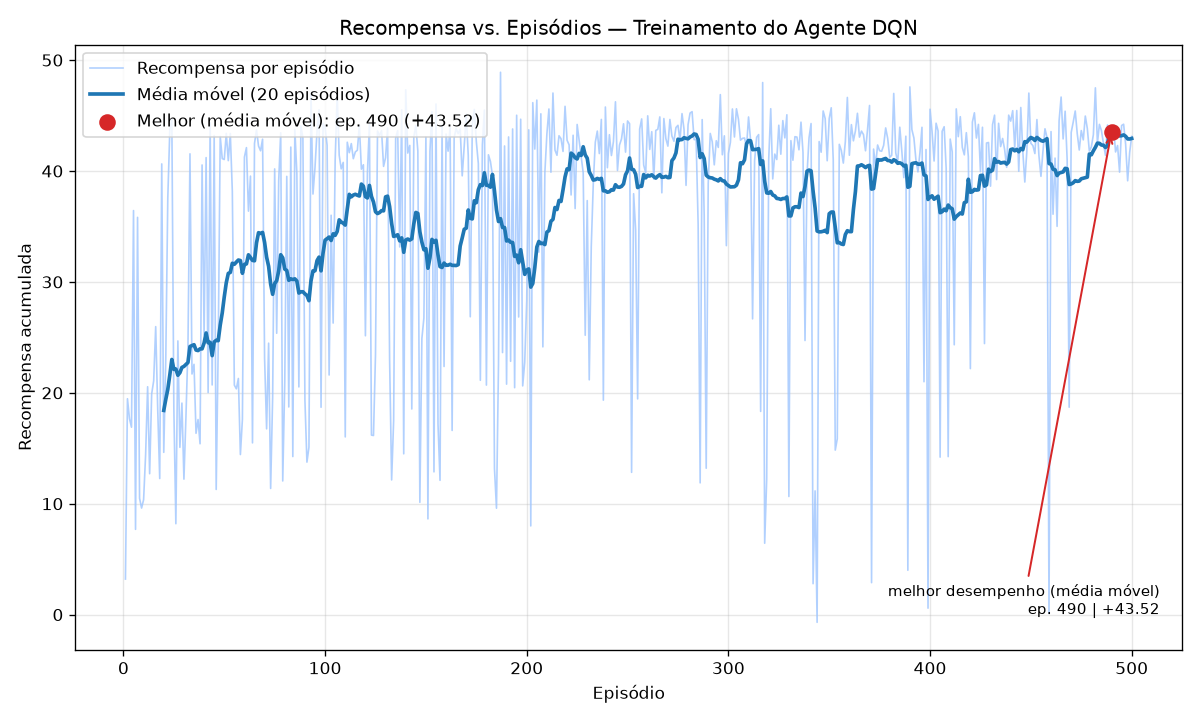
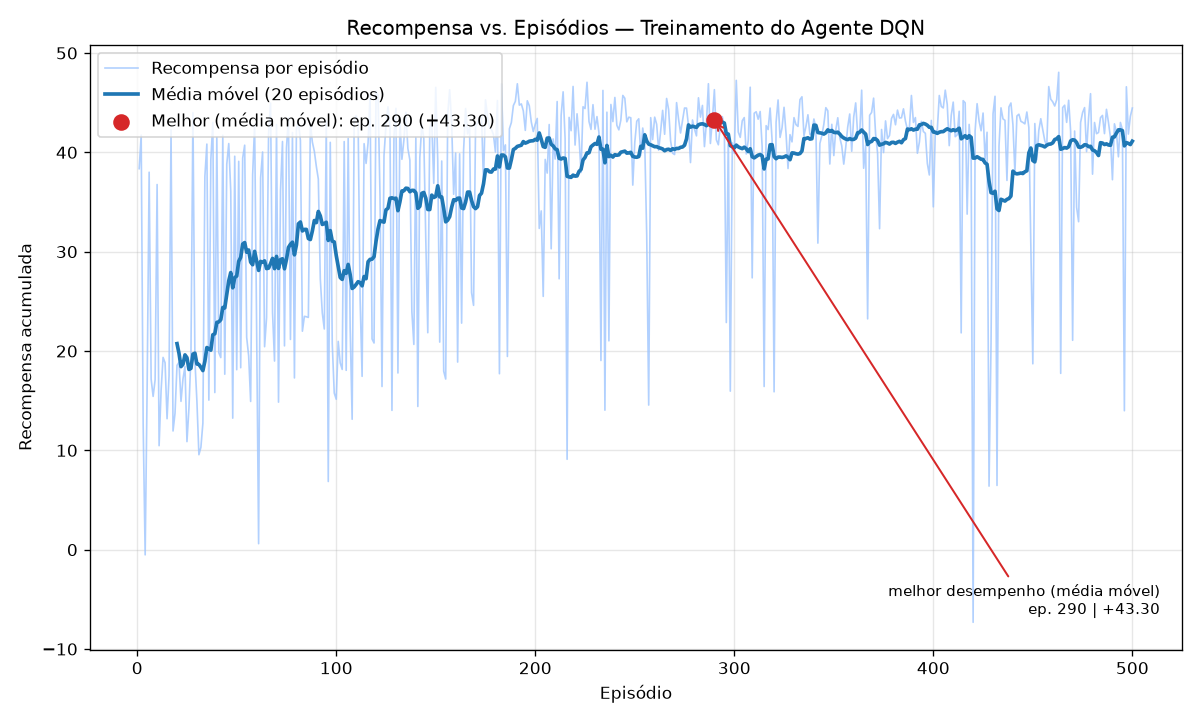
docs: relatório técnico da implementação (domínio, MDP, crença, resultados)
Relatório técnico do ITS por RL: domínio (grafo de conhecimento/DAG),
formulação como MDP de estado-de-crença, descrição do que foi implementado no
código (schema/banco em grade, simulador do aluno com crença Bayesiana, agente
DQN e treino), parecer da linha de pensamento (diagnóstico da recompensa de
média zero e o insight de estado-de-crença), resultados com 4 figuras (DAG,
curva de aprendizado, evolução da proficiência e estimativa vs. verdade) e
tabelas (métricas + robustez em 3 execuções), limitações e trabalhos futuros.

diff --git a/docs/RELATORIO_TECNICO.md b/docs/RELATORIO_TECNICO.md
@@ -1,0 +1,327 @@
+# Relatório Técnico — Sistema Tutor Inteligente (ITS) com Aprendizado por Reforço
+
+**Projeto:** `enem-rl-tutor` — Tutor adaptativo de Matemática para o ENEM
+**Algoritmo:** Deep Q-Network (DQN) sobre um MDP de estado-de-crença
+
+---
+
+## 1. Sumário executivo
+
+O projeto modela um **Sistema Tutor Inteligente (ITS)** como um problema de
+**Aprendizado por Reforço (RL)**: em vez de recomendar produtos para maximizar
+cliques, o agente recomenda **trilhas de questões para maximizar o aprendizado**,
+conduzindo um aluno do nível básico ao avançado dentro de um currículo de
+Matemática do ENEM.
+
+A implementação tem três pilares:
+
+1. um **simulador do aluno** (o ambiente), que mantém a proficiência real do
+   estudante e a faz evoluir conforme ele acerta/erra;
+2. um **modelo de crença Bayesiano**, pelo qual o sistema **não conhece** a
+   proficiência verdadeira do aluno — ele a **estima com incerteza**, atualizando
+   a estimativa a cada resposta (como um tutor real faz);
+3. um **agente DQN**, que aprende a política pedagógica: a cada passo escolhe
+   **avaliar, consolidar ou recuar** no grafo de conhecimento.
+
+Resultados (política gulosa): **~88% de "nível avançado"** (média de 3 treinos;
+70–100%), **~8,8/12 conceitos dominados**, e — o diferencial pedagógico —
+**~68% das "sondagens"** (testar um conceito sobre o qual o sistema tem dúvida)
+**revelam domínio oculto**, reduzindo o erro da estimativa. O ponto central deste
+relatório é que tudo isso foi obtido **corrigindo a modelagem do problema**, não
+trocando de algoritmo.
+
+---
+
+## 2. Domínio e escopo
+
+### 2.1 O problema pedagógico
+
+O objetivo é manter o aluno na **Zona de Desenvolvimento Proximal (ZDP)** —
+questões nem fáceis demais (tédio/desperdício) nem difíceis demais (frustração) —
+e fazê-lo **evoluir** até conceitos avançados, evitando que fique preso no fácil.
+Fundamentos teóricos incorporados: ZDP (Vygotsky), Teoria de Resposta ao Item
+(TRI) e Modelo Aberto do Aluno.
+
+### 2.2 O Modelo de Domínio — Grafo de Conhecimento (DAG)
+
+O currículo é um **Grafo Direcionado Acíclico** `G = (V, E)`: os vértices são
+conceitos e as arestas são **pré-requisitos** (`v_i → v_j` ⇒ dominar `v_i` é
+necessário para aprender `v_j`). A implementação usa 12 conceitos em 5 níveis de
+profundidade:
+
+![Grafo de Conhecimento](figuras/grafo_conhecimento.png)
+
+A profundidade no DAG é o **eixo de evolução**: o "nível avançado" corresponde a
+dominar os conceitos profundos (ex.: `Volumes_Areas_Espacial`, profundidade 4),
+que exigem a cadeia completa de pré-requisitos.
+
+---
+
+## 3. Formulação como MDP
+
+| Elemento RL | Implementação no ITS |
+|---|---|
+| **Ambiente** | Simulador do aluno com proficiência **REAL oculta** |
+| **Estado `S`** (observado) | **Estimativa de proficiência (12)** ⊕ **one-hot do conceito atual (12)** ⊕ **incerteza da estimativa (12)** → `dim_estado = 36` |
+| **Ações `A`** | 3 intervenções pedagógicas: **Avançar** (sucessor no DAG), **Reforçar** (mesmo conceito), **Remediar** (pré-requisito) |
+| **Transição** | O aluno aprende (proficiência REAL muda) **e** o sistema reavalia (a estimativa é atualizada) |
+| **Recompensa `R`** | Orientada à meta + sondagem (§3.2) |
+| **Algoritmo** | DQN (estado contínuo + ações discretas) |
+
+### 3.1 Modelo de crença (estimativa + incerteza)
+
+O sistema mantém, para cada conceito, uma **crença Bayesiana** sobre a
+probabilidade de acerto, representada por uma distribuição **Beta(α, β)**:
+
+- o aluno acerta segundo a **proficiência REAL** (oculta);
+- o agente observa apenas a **média** `α/(α+β)` (estimativa) e o **desvio**
+  (incerteza) dessa crença;
+- a cada resposta a crença é atualizada (acerto → `+α`, erro → `+β`), com um leve
+  esquecimento (`λ = 0,95`) que a faz **rastrear** um aluno que evolui.
+
+Expor a **incerteza** (e não só a estimativa pontual) é o que torna a observação
+uma **estatística suficiente** do estado — ver §5.3.
+
+### 3.2 Função de recompensa
+
+```
+R_t = W_PROGRESSO · Δprof_real · peso_profundidade   (ganho de aprendizado, ponderado por profundidade)
+    + bônus de domínio                                (1ª vez que um conceito cruza o limiar τ = 0,8)
+    + W_SONDA · max(0, Δerro_crença)                  (SONDAGEM: ganho de informação)
+    − W_TEDIO · max(0, ŷ − 0,85)                      (questão fácil demais → tédio/desperdício)
+    − W_FRUST · max(0, 0,20 − ŷ)  [se errou]          (questão difícil demais → frustração)
+    − W_PASSO                                         (custo por passo → eficiência)
+    + W_OBJETIVO                                      (bônus terminal: nível avançado atingido)
+```
+
+| Parâmetro | Valor | Papel |
+|---|---|---|
+| `W_PROGRESSO` | 4,0 | Recompensa densa pelo ganho de proficiência (mais peso em conceitos profundos) |
+| `W_DOMINIO` | 1,5 | Bônus por **dominar** um conceito novo |
+| `W_SONDA` | 4,0 | **Ganho de informação**: quanto a resposta aproximou a estimativa da verdade |
+| `W_TEDIO` / `W_FRUST` | 1,0 / 1,5 | Penalizam os extremos da dificuldade |
+| `W_OBJETIVO` | 15,0 | Bônus terminal |
+| `τ` / meta | 0,80 / 70% | Limiar de domínio / fração do currículo = "nível avançado" |
+
+A probabilidade de acerto segue uma **logística estilo TRI**:
+`ŷ = σ(k·[(prof − dificuldade) + α·(domínio_dos_pré-requisitos − 0,5)])` — de modo
+que pré-requisitos fracos derrubam `ŷ`, dando sentido pedagógico a "Remediar".
+
+---
+
+## 4. O que foi implementado (código)
+
+```
+data/database_setup.py   # Schema (SQLAlchemy) + DAG + banco de questões em grade
+env/student_env.py       # Simulador do aluno: proficiência REAL, crença, recompensa
+agent/
+  ├── model.py           # Q-Network (MLP)
+  ├── replay_buffer.py   # Experience Replay
+  ├── dqn_agent.py       # Política ε-greedy, alvo de Bellman, soft update
+  └── train.py           # Loop de treino + avaliação gulosa + checkpoint
+```
+
+**`data/database_setup.py`** — define o schema relacional (conceitos, arestas de
+pré-requisito, questões, estado do aluno, interações) e popula o banco:
+- o **grafo de conhecimento** (`GRAFO_CONHECIMENTO`) como dicionário conceito →
+  pré-requisitos, materializado em uma tabela associativa (DAG);
+- um **banco de questões em grade** `conceito × dificuldade` (3 níveis), com
+  questões **parametrizadas** (geradores que sorteiam números e calculam o
+  gabarito) → 12 × 3 × 5 = **180 questões** reprodutíveis (semente fixa).
+
+**`env/student_env.py`** — o ambiente, no estilo OpenAI Gym (`reset()` / `step()`):
+- guarda a **proficiência REAL** do aluno (oculta) e a **crença** Beta(α, β) por
+  conceito; `_get_state()` monta a observação `[estimativa, one-hot, incerteza]`;
+- `step()` traduz a ação abstrata no conceito-alvo (navegação determinística pelo
+  DAG), calcula `ŷ` (da crença) e a probabilidade real, **sorteia o resultado**,
+  atualiza a proficiência real (`_atualizar_proficiencia`) e a crença
+  (`_atualizar_crenca`), e calcula a recompensa (§3.2);
+- a proficiência vive **em memória** e `reset()` a restaura → treino episódico e
+  reprodutível.
+
+**`agent/`** — o agente DQN e o treino:
+- `model.py`: MLP `36 → 128 → 128 → 3` (ReLU), saída = Q-value por ação;
+- `replay_buffer.py`: buffer circular que descorrelaciona as transições;
+- `dqn_agent.py`: seleção **ε-greedy**, alvo de Bellman
+  `r + γ·max_a' Q_target(s',a')·(1−done)`, perda **Huber** com clip de gradiente
+  e **soft update (Polyak)** da target network;
+- `train.py`: o laço de episódios, a **avaliação gulosa periódica** (ε=0) e o
+  salvamento do **melhor checkpoint**, além da curva de aprendizado.
+
+| Técnica de estabilização | Onde |
+|---|---|
+| Experience Replay | `replay_buffer.py` |
+| Target Network — **soft update**, τ=0,005 | `dqn_agent.update_target` |
+| Huber loss + clip de gradiente | `dqn_agent.optimize_model` |
+| Seleção pela **avaliação gulosa** (não pela recompensa de treino) | `train.avaliar_politica` |
+
+---
+
+## 5. Parecer — a linha de pensamento
+
+A concepção original do problema estava conceitualmente rica, mas a **modelagem
+do MDP impedia o aprendizado**. O trabalho central foi diagnosticar e reescrever
+o ambiente. Os problemas e as correções:
+
+| # | Problema diagnosticado | Por que travava | Correção implementada |
+|---|---|---|---|
+| 1 | **Recompensa `R_t = y − ŷ`** | Com `ŷ` calibrado, `E[R_t] = 0` para **qualquer** política → gradiente nulo. O aluno melhorar não aumentava a recompensa | Recompensa **orientada à meta**: ganho de aprendizado ponderado por profundidade + bônus de domínio + bônus terminal |
+| 2 | **Estado não-Markoviano** | "Avançar/Reforçar/Remediar" dependem de *onde* o aluno está, mas o estado só tinha proficiências | **One-hot do conceito atual** no vetor de estado |
+| 3 | **Ação não controlava o desafio** | A questão era "casada" com a proficiência, fixando `ŷ ≈ 0,5` e neutralizando a ação | A dificuldade passa a vir do **conceito-alvo** escolhido pela ação |
+| 4 | **Treino não-episódico** | A proficiência era persistida a cada passo → não-estacionário e irreprodutível | Proficiência **em memória**; `reset()` restaura o estado inicial |
+| 5 | **Sem meta nem pré-requisitos** | `done` só por fadiga; nada puxava ao avançado | **Bônus terminal** + aprendizado **acoplado ao domínio dos pré-requisitos** |
+
+### 5.1 Da observabilidade total à crença
+
+As correções acima já produzem um tutor que aprende — mas que **conhece a verdade
+sobre o aluno**, hipótese irreal. O passo seguinte foi **esconder a proficiência
+real** e fazer o agente agir sobre uma **estimativa**. Isso introduziu a pergunta
+pedagógica que guiou o resto do projeto:
+
+> *"E se o agente testar uma questão mais difícil antes da proficiência exata,
+> para descobrir se o aluno já não domina aquilo — recompensando essa
+> descoberta?"*
+
+A ideia é correta, mas só faz sentido quando a estimativa do sistema **pode
+diferir** da verdade. Daí o **modelo de crença**: a recompensa de **sondagem**
+premia **reduzir o erro da estimativa** (descobrir domínio oculto). Note que a
+fórmula `y − ŷ`, inútil como objetivo (média zero), **renasce corretamente como
+*shaping*** de ganho de informação sobre um objetivo direcional.
+
+### 5.2 O insight central: estado-de-crença
+
+Esconder a verdade torna o problema **parcialmente observável (POMDP)**. Uma
+estimativa **pontual** não basta: a rede não distingue "estimativa baixa porque o
+aluno é fraco" de "estimativa baixa por falta de evidência". A solução **não** foi
+trocar de algoritmo (rede recorrente), e sim **expor a incerteza** junto da
+estimativa. Estimativa + incerteza formam uma **estatística suficiente** da
+crença, transformando o POMDP num **MDP de estado-de-crença** — e mantendo a
+**DQN feedforward adequada**.
+
+> **Parecer:** o gargalo do projeto nunca foi o algoritmo, e sim a **modelagem
+> do problema**. A falha mais sutil e fatal foi a recompensa de média zero: o
+> treino "rodava", a perda parecia comportada, mas a curva ficava plana em ~0
+> porque não havia nada para maximizar. Corrigida a modelagem — e, depois,
+> modelada a **incerteza** — o mesmo DQN simples passou a aprender uma política
+> pedagógica coerente. Modelagem vencendo força bruta.
+
+---
+
+## 6. Resultados
+
+### 6.1 Curva de aprendizado
+
+Após as correções, a recompensa acumulada **cresce de forma sustentada** (antes:
+plana em ~0, sem tendência); a perda de treino fica baixa e estável (~0,07):
+
+![Curva de aprendizado](../data/weights/recompensa_vs_episodios.png)
+
+### 6.2 Evolução do aluno (proficiência REAL)
+
+A política gulosa **eleva substancialmente a proficiência real** do aluno
+simulado, levando a maioria dos conceitos acima do limiar de domínio:
+
+![Evolução da proficiência](figuras/evolucao_proficiencia.png)
+
+A figura também expõe, com honestidade, a principal limitação: a cadeia profunda
+de geometria (`Formulas_Areas_Plana → Geometria_Posicao → Volumes_Areas_Espacial`)
+permanece **não dominada** — exige a satisfação simultânea de dois pré-requisitos
+(§7).
+
+### 6.3 O modelo de crença em ação
+
+Ao fim do episódio, a **estimativa do sistema (roxo)** acompanha a **proficiência
+real (verde)** nos conceitos em que o agente atua — o sistema **aprendeu o
+aluno**. Nos conceitos profundos que ele raramente visita, a estimativa fica perto
+do prior: **o sistema honestamente não estima o que não testou**.
+
+![Crença vs. verdade](figuras/crenca_vs_verdade.png)
+
+### 6.4 Métricas (política gulosa, ε=0)
+
+| Métrica | Valor |
+|---|---|
+| Taxa de "nível avançado" (≥70% dominado) | **~88%** (média de 3 execuções; ver §6.5) |
+| Conceitos dominados (REAL) | **~8,8 / 12 (≈73%)** |
+| **Sondagens em conceito incerto que "pagam"** | **~68%** |
+| Erro da estimativa (início → fim do episódio) | 0,213 → 0,196 |
+| Perda de treino (estável) | ~0,07 |
+| Distribuição de ações | Avançar 27% · Reforçar 48% · Remediar 24% |
+
+O agente segue um ciclo coerente: **avalia** (sonda conceitos incertos),
+**consolida** (Reforçar é a ação dominante) e **remedia** pré-requisitos fracos —
+respeitando o DAG e mantendo o aluno majoritariamente na ZDP.
+
+### 6.5 Robustez entre execuções
+
+Treinando do zero 3 vezes e avaliando cada política (20 episódios gulosos):
+
+| Execução | Nível avançado | Conceitos dominados |
+|---|---|---|
+| 1 | 95% | 8,9 / 12 |
+| 2 | 70% | 8,3 / 12 |
+| 3 | 100% | 9,0 / 12 |
+| **Média** | **88%** | **8,7 / 12** |
+
+O desempenho é alto na maioria das execuções (até 100%), mas a **variância é
+real** (uma execução caiu a 70%) — instabilidade característica de métodos
+baseados em valor. O *checkpoint da melhor avaliação gulosa* mitiga, mas não
+elimina.
+
+---
+
+## 7. Limitações
+
+1. **Variância de treino (instabilidade do DQN).** Execuções diferentes chegam a
+   políticas de qualidade distinta; mitigado pelo *checkpoint* da melhor
+   avaliação gulosa, não eliminado.
+2. **Crença não persiste entre sessões.** A cada episódio a crença reinicia no
+   prior; um tutor real acumularia o conhecimento sobre o aluno ao longo do tempo.
+3. **Espaço de ações relativo (3 verbos).** O agente escolhe o *conceito* mas não
+   a *dificuldade* da questão — não consegue oferecer uma questão mais fácil do
+   mesmo conceito quando o aluno trava (ver §8).
+4. **Cadeia profunda não dominada.** A geometria profunda (§6.2) raramente é
+   alcançada/avaliada, pois exige dois pré-requisitos simultâneos.
+5. **Domínio-brinquedo.** 12 conceitos, 1 aluno simulado e **180 questões
+   sintéticas** — suficiente para validar a modelagem, insuficiente para produção.
+
+---
+
+## 8. Trabalhos futuros
+
+| Direção | Observação |
+|---|---|
+| **Espaço de ações `A = V × D`** (conceito × dificuldade) | Daria controle fino da dificuldade (fecharia a limitação 7.3). Em experimentos, porém, o espaço de **36 ações** fez o DQN **divergir** (perda → 2,5); nem **Double DQN** atingiu a meta. Conclui-se que essa formulação exige um motor de RL diferente (**PPO/A2C**, policy-gradient). |
+| **Persistência da crença entre sessões** | Acumular o modelo do aluno ao longo do tempo (tutor longitudinal), em vez de reiniciar a cada episódio. |
+| **Estabilizar o treino (ex.: Double DQN)** | Reduzir a variância entre execuções da §6.5. |
+| **Dados reais do ENEM (TRI)** | Substituir as questões sintéticas por itens reais com dificuldade calibrada; reservar conjunto de avaliação. |
+| **Múltiplos perfis de aluno** | Treinar contra alunos simulados variados (chutador, consistente, esquecido) para uma política robusta. |
+| **Dashboard (Modelo Aberto do Aluno)** | Expor a crença ao estudante para promover metacognição. |
+
+---
+
+## 9. Conclusão
+
+O projeto demonstra, de ponta a ponta, que **modelar corretamente o problema** é o
+que torna um ITS por RL viável. A contribuição decisiva não foi um truque de
+algoritmo, mas (a) o diagnóstico de que a recompensa original tinha **média zero**
+e a sua reescrita orientada à meta, e (b) a percepção de que **expor a incerteza**
+transforma um problema parcialmente observável num MDP de estado-de-crença,
+mantendo a rede simples e fazendo a **sondagem por ganho de informação**
+funcionar. O resultado é um agente que **avalia o aluno, respeita pré-requisitos,
+mantém-no na ZDP e o conduz ao nível avançado** — coerente com a visão de ITS do
+projeto.
+
+---
+
+## Apêndice — Como reproduzir
+
+```bash
+pip install -r requirements.txt
+python -m data.database_setup     # cria o DAG + banco de questões em grade
+python -m agent.train             # treina; salva pesos e a curva de aprendizado
+```
+
+Saídas: `data/weights/dqn_policy.pt` (melhor política) e
+`data/weights/recompensa_vs_episodios.png` (curva de aprendizado).
+Figuras deste relatório: `docs/figuras/`.